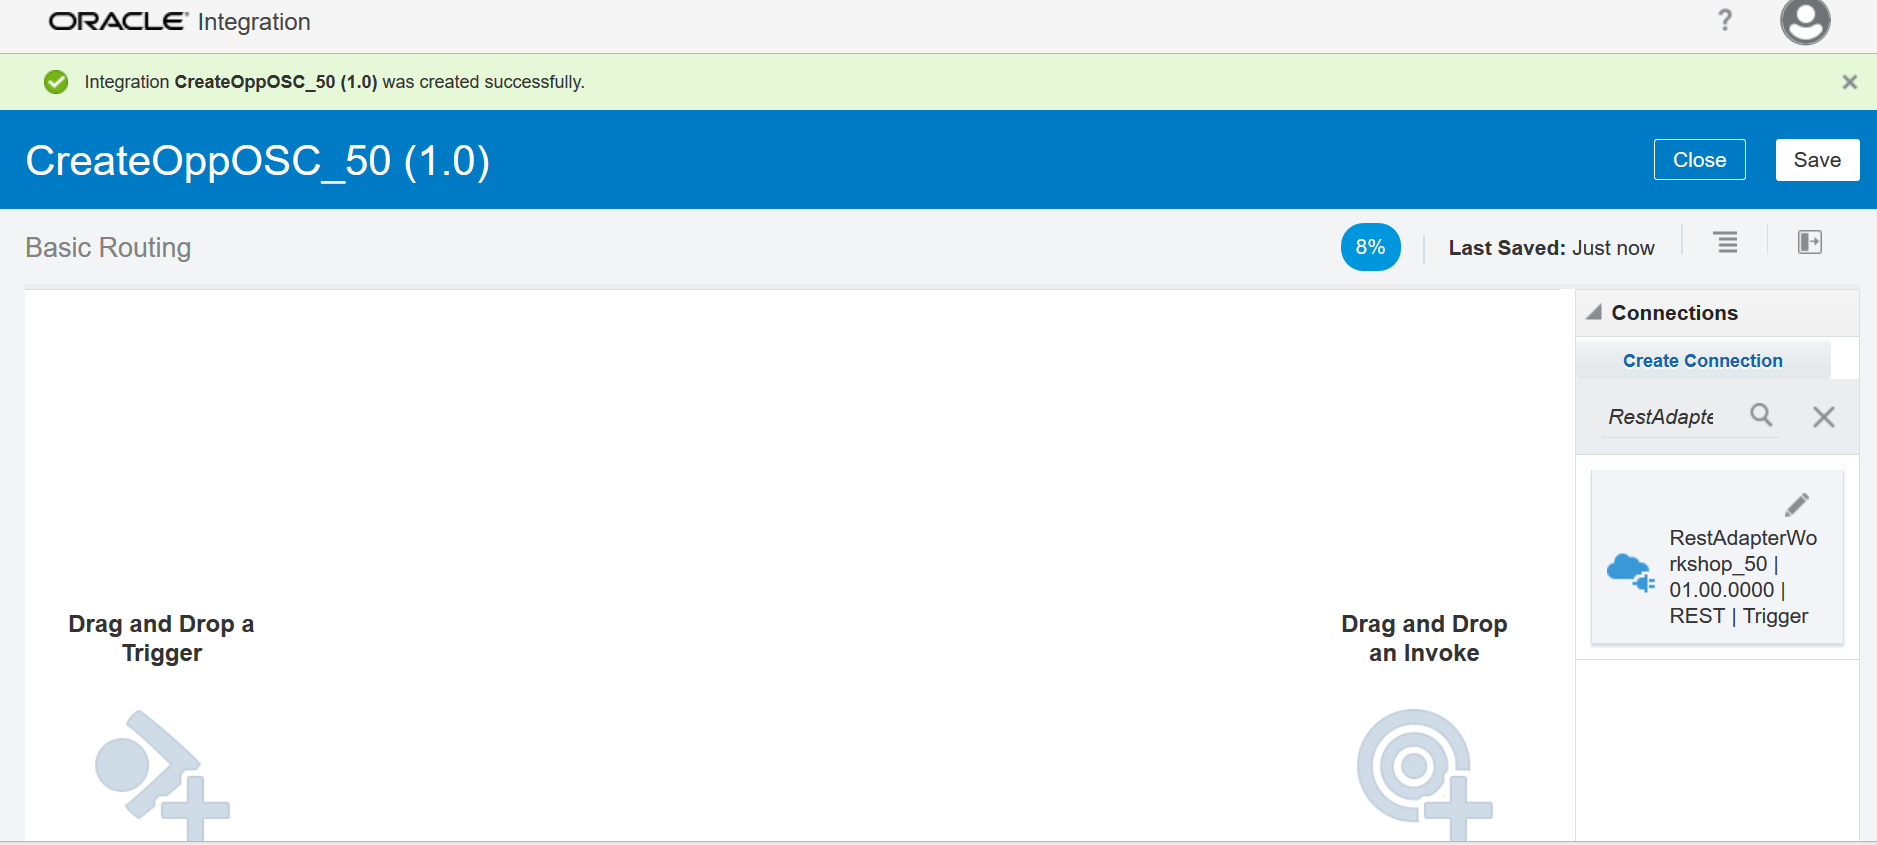
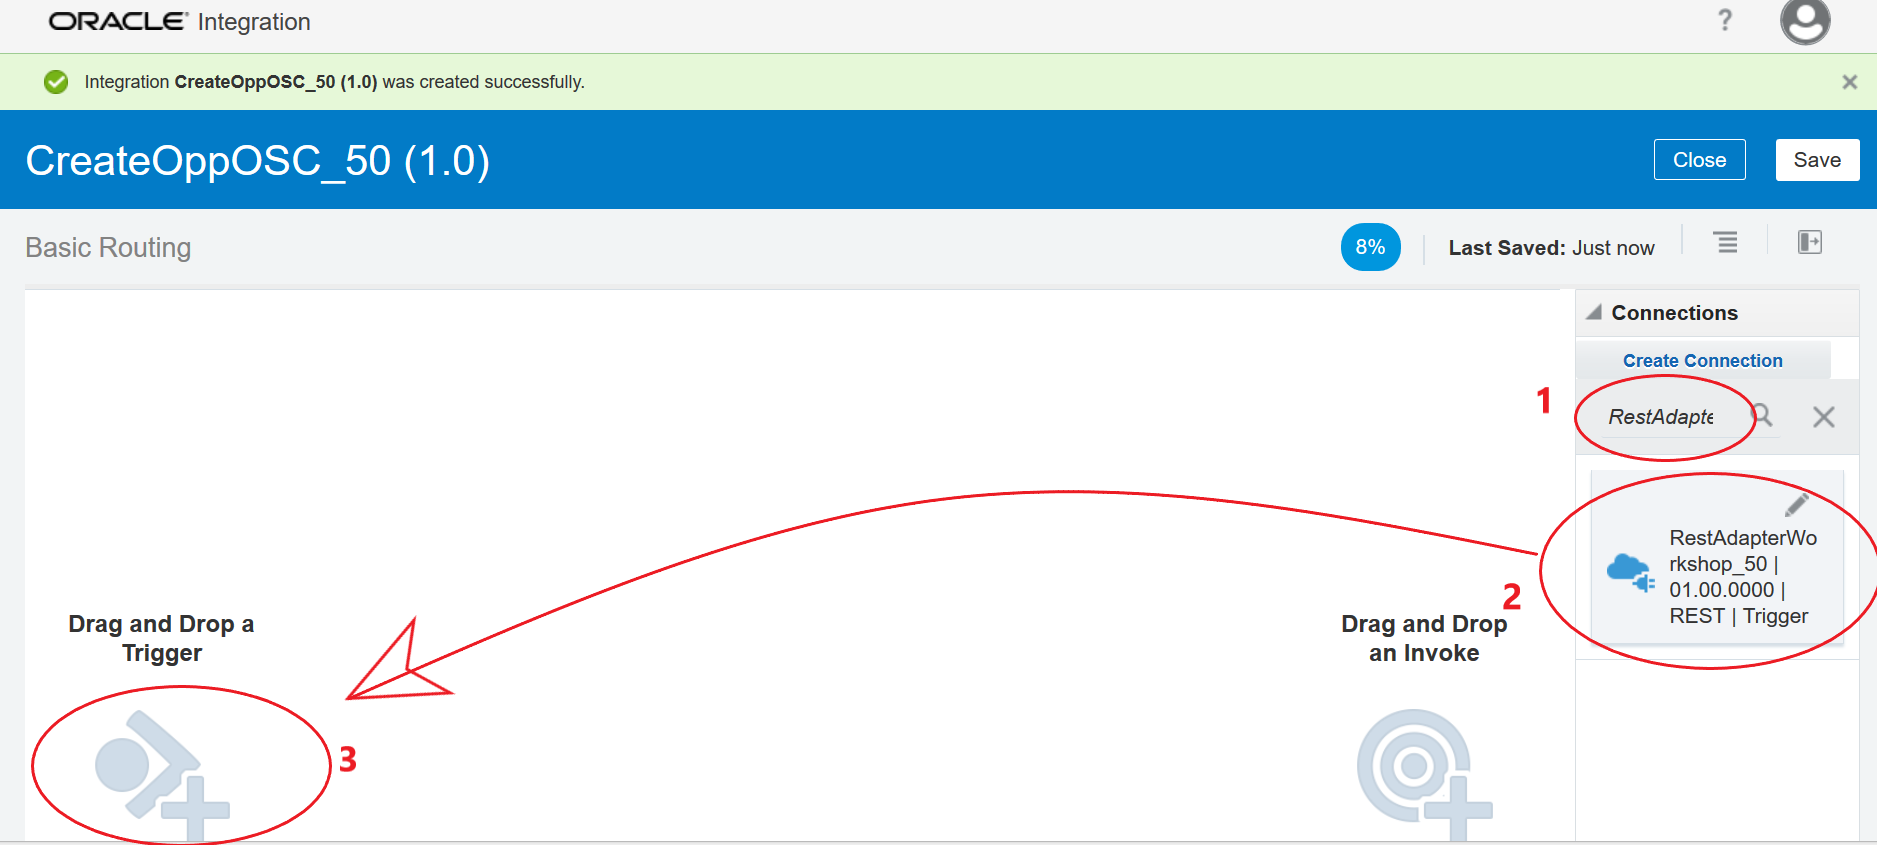
Lab 1 - Passo 1 até 3

diff --git a/paas4saas/lab1.md b/paas4saas/lab1.md
@@ -3,6 +3,16 @@
 - Passo 1: Criar um conector REST
 - Passo 2: Criar um conector para o Oracle Sales Cloud
 - Passo 3: Criar uma integração entre o conector rest e o conector Oracle Sales Cloud
+- Passo 4: Efetuar teste para criação de uma oportuniade
+
+## Pré-Requisitos
+Leia os Links abaixo:
+- Ter acesso ao OIC
+- Ter acesso ao Oracle Sales Cloud
+- Link dos serviços do Sales Cloud - [Veja como obter os links](https://docs.oracle.com/en/cloud/paas/integration-cloud/sales-adapter/prerequisites-creating-connection.html#GUID-8AF6BDD4-A711-480E-B71F-FAD062024A57)
+- [Developing Integrations with Oracle Integration Cloud Service](https://docs.oracle.com/en/cloud/paas/integration-cloud-service/icsug/mapping-data-and-creating-lookups.html) 
+- [Como usar o mapeamento](https://www.youtube.com/watch?v=6xNUpB7z9mA "Mapping Data in Oracle Integration Cloud Service")
+
 ### Passo 1
 **1.1** Faça o login da sua conta no Oracle Cloud. Link será entregue pelo instrutor.
 
@@ -63,8 +73,161 @@
 
 **3.2** Preencha o nome da integração como `CreateOppOSC_XX` e depois clique em **Create**.
 
-![image011.png](images/1/image012.png "image012.png")
+![image012.png](images/1/image012.png "image012.png")
 
-**3.3** Na próxima tela, busque no campo direito pelo conexão `RestAdapterWorkshop_XX`, arraste ela até o campo *Drag and Drop a Trigger*.
+**3.3** Na próxima tela, busque no campo direito (1) pelo conexão `RestAdapterWorkshop_XX` (2), arraste ela até o campo *Drag and Drop a Trigger* (3).
 
-![image011.png](images/1/image013.png "image013.png")
+![image013.png](images/1/image013.png "image013.png")
+
+**3.4** Configurando o adaptador rest
+
+**3.4.1** Preenche os campos conforme imagens abaixo:
+
+![image013_1.png](images/1/image013_1.png)
+
+**3.4.2** Clique em  **Next >**
+
+Agora selecione a opção **JSON Sample** e depois clique em **<<< inline >>>**
+
+![image014.png](images/1/image014.png)
+
+**3.4.2.1** No campo **Enter Sample JSON** digite o código abaixo e depois clique em **OK**:
+
+```json
+{
+	"nomeOportunidade" : "Nome da Oportuniade",
+	"loginOwner" : "amanda.bell",
+	"probabilidadeGanhar" : 10
+}
+```
+
+![image015.png](images/1/image015.png)
+
+
+**3.4.3** Selecione **JSON** como tipo do Payload que o endpoint irá receber e depois clique em **Next >**
+
+![image015_1.png](images/1/image015_1.png)
+
+**3.4.4** Agora selecione a opção **JSON Sample** e depois clique em **<<< inline >>>**
+
+![image016.png](images/1/image016.png)
+
+**3.4.4.1** No campo **Enter Sample JSON** digite o código abaixo e depois clique em **OK**:
+
+```json
+{ "idOportuniade" : "123095" }
+```
+
+![image017.png](images/1/image017.png)
+
+**3.4.5** Selecione **JSON** como tipo do Payload que o endpoint irá responder e depois clique em **Next >**
+
+![image017_1.png](images/1/image017_1.png)
+
+Tela final, confira se configurou corretamente em **Endpoint Summary** e depois clique em **Done**
+
+![image018.png](images/1/image018.png)
+
+**3.5** Na tela principal, busque no campo direito (1) pelo conexão `SalesCloudWorkshop_XX` (2), arraste ela até o campo *Drag and Drop a Invoke* (3).
+
+![image013.png](images/1/image019.png "image019.png")
+
+**3.6** Configurando o adaptador SalesCloud
+
+**3.6.1** Preenche os campos conforme imagens abaixo:
+
+![image020.png](images/1/image020.png)
+
+**3.6.2** Clique em  **Next >**
+**3.6.3** No Campo **Browse By** selecione **Business Objects** (1). No campo **Select a Business Object** escolha a opção **Opportunity : OpportunityService** (2) e no campo **Select the Operation to Perform on the Business Object** selecione a opção **createOpportunity**, conforme imagem abaixo, e depois clique em **Next >**.
+
+![image021.png](images/1/image021.png)
+
+**3.6.4** Clique em  **Done**
+
+![image022.png](images/1/image022.png)
+
+**3.7** Configurando uma chamada para recuperar o ID do *Owner* da Oportunidade:
+
+**3.7.1** Do lado direito da tela procure novamente pela conexão `SalesCloudWorkshop_XX` e arraste até o **+** no canto esquerdo, conforme indicado na figura abaixo:
+
+![image023.png](images/1/image023.png)
+
+**3.7.2** Após abrir a tela de configuração desta integração coloque o nome da integração como `GetUserByUsername` e depois clique em **Next >**
+
+![image023_1.png](images/1/image023_1.png)
+
+**3.7.3** No Campo **Browse By** selecione **Services**. No campo **Select a Service** escolha a opção **ResourceSercice** e no campo **Select the Operation to Perform on the Business Service** selecione a opção **findResource**, conforme imagem abaixo, e depois clique em **Next >**.
+
+![image024.png](images/1/image024.png)
+
+**3.8** Mapeamento a chamada para recuperar o ID do *Owner* da Oportuniade:
+Caso você tenha dúvidas de como efetuar o mapeamento veja o link que está na seção Pré Requisitos: Como usar o mapeamento. [[1]][mapeamento]
+
+**3.8.1** Clique no mapeamento mais a esquerda da tela e depois em **+**, conforme figura abaixo:
+
+![image025.png](images/1/image025.png)
+
+**3.8.2** Clique no campo **attribute** conforme imagem abaixo:
+
+![image026.png](images/1/image026.png)
+
+**3.8.3** No lugar indicado coloque o valor `Username`, clique em **Save** e depois **Close**:
+
+![image027.png](images/1/image027.png)
+
+**3.8.4** Repista os passos 3.8.1 e 3.8.2 para o campo **operator** e o valor será `=`
+
+**3.8.5** Por último arraste, utilizando o mouse, o campo `loginOwner` para o campo **value**
+
+![image028.png](images/1/image028.png)
+
+**3.8.6** Clique em **Validate** deopis em **Close**
+
+**3.9** Mapeamento a chamada para chamar a conexão do Sales Cloud:
+Caso você tenha dúvidas de como efetuar o mapeamento veja o link que está na seção Pré Requisitos: Como usar o mapeamento. [[1]][mapeamento]
+
+**3.9.1** Clique no mapeamento mais ao centro e acima da tela e depois em **+**, conforme figura abaixo:
+
+![image029.png](images/1/image029.png)
+
+**3.9.2** Faça o mapeamento arrastando os campos da esquerda para a direita conforme figura abaixo:
+
+    CurrencyCode = USD (campo fixo)
+    nomeOportunidade ===> Name
+    probabilidadeGanhar ===> WinProb
+    PartyID ===> OwnerResourcePartyId
+
+![image030.png](images/1/image030.png)
+
+**3.9.3** Clique em **Validate** deopis em **Close**
+
+**3.10** Mapeamento de retorno da chamada do Sales Cloud:
+**3.10.1** Clique no mapeamento mais ao centro e abaixo da tela e depois em **+**, conforme figura abaixo:
+
+![image031.png](images/1/image031.png)
+
+**3.10.2** Faça o mapeamento arrastando os campos da esquerda para a direita conforme figura abaixo:
+
+    OptyID ===> idOportunidade
+
+![image032.png](images/1/image032.png)
+
+**3.10.3** Clique em **Validate** deopis em **Close**
+
+**3.11** Rastreamento das chamadas
+**3.11.1** Clique em **Tracking**, conforme figura abaixo:
+
+![image033.png](images/1/image033.png)
+
+**3.11.2** Arraste as variáveis do lado esquerdo para os campos do lado direito, conforme figura abaixo:
+
+![image034.png](images/1/image034.png)
+
+**3.11** Após isso, verifique se o campo de porcentagem de atividades está igual a 100%, se estiver clique em **Save** e depois em **Close**
+
+![image035.png](images/1/image035.png)
+
+
+
+[mapeamento]: https://github.com/matheuzum/Oracle/blob/master/paas4saas/lab1.md#objetivos "Como usar o mapeamento"
